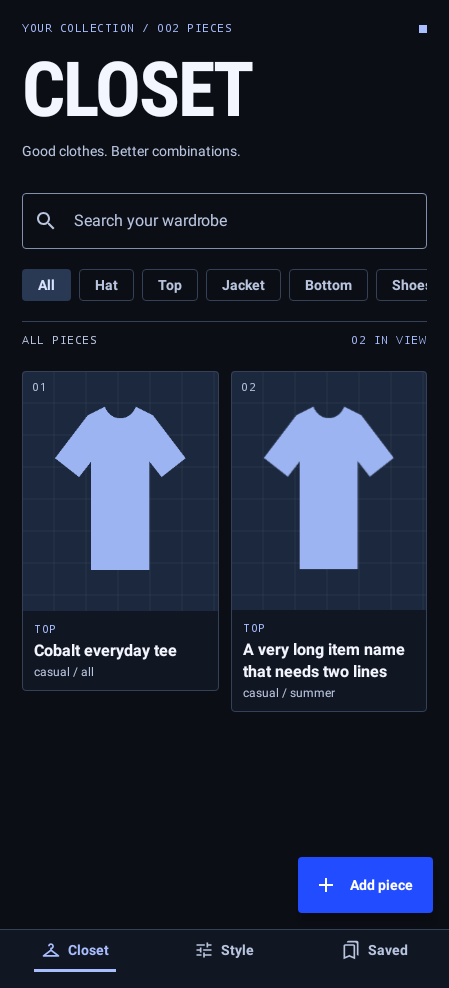
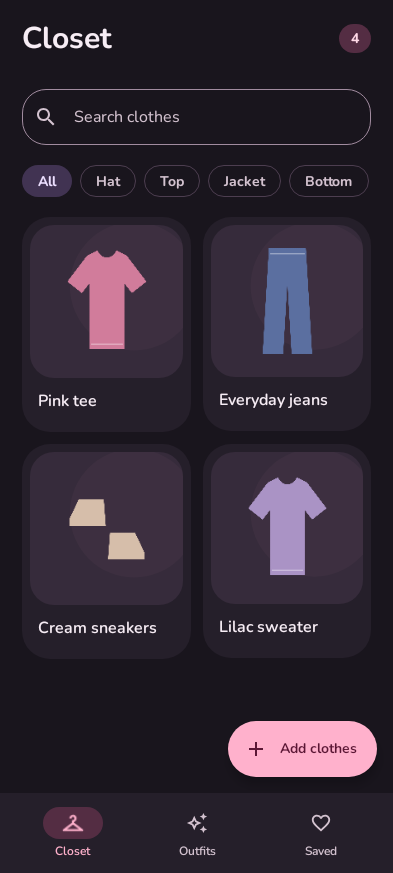
Present the app publicly with current screenshots and freshness checks

diff --git a/scripts/update_screenshots.py b/scripts/update_screenshots.py
@@ -1,0 +1,37 @@
+#!/usr/bin/env python3
+"""Refresh public screenshots from actual Compose renders; detect stale UI documentation."""
+import argparse, hashlib, json, pathlib, shutil, sys
+ROOT = pathlib.Path(__file__).resolve().parents[1]
+RENDERS = ROOT / 'app/build/outputs/design-review'
+DEST = ROOT / 'docs/screenshots'
+FILES = {'closet-populated-light.png':'closet.png', 'studio-light.png':'outfits.png', 'lookbook-dark.png':'saved.png', 'closet-populated-dark.png':'dark-mode.png', 'editor-light.png':'editor.png'}
+
+def source_hash():
+    digest = hashlib.sha256()
+    paths = sorted((ROOT/'app/src/main/java/dev/closet/ui').glob('*.kt')) + sorted((ROOT/'app/src/main/res').rglob('*')) + sorted((ROOT/'app/src/test/java/dev/closet/ui').glob('*.kt'))
+    for path in paths:
+        if path.is_file():
+            digest.update(path.relative_to(ROOT).as_posix().encode())
+            content = path.read_bytes()
+            if path.suffix in {'.kt','.xml'}: content = content.replace(b'\r\n',b'\n')
+            digest.update(content)
+    return digest.hexdigest()
+
+def main():
+    parser = argparse.ArgumentParser(description=__doc__); parser.add_argument('--check',action='store_true'); args=parser.parse_args()
+    manifest = {'schema':1,'ui_source_sha256':source_hash(),'screenshots':list(FILES.values()),'sample_data':'Illustrated example wardrobe, rendered with the actual app components.'}
+    if args.check:
+        actual = json.loads((DEST/'manifest.json').read_text())
+        if actual != manifest: raise ValueError('UI screenshots are stale. Run testDebugUnitTest and scripts/update_screenshots.py.')
+        if any(not (DEST/name).is_file() for name in FILES.values()): raise ValueError('Public screenshot is missing.')
+        print('Public screenshots match the current UI source.'); return
+    missing = [name for name in FILES if not (RENDERS/name).is_file()]
+    if missing: raise ValueError('Generate current UI renders with testDebugUnitTest first. Missing: '+', '.join(missing))
+    DEST.mkdir(parents=True,exist_ok=True)
+    for src,target in FILES.items(): shutil.copyfile(RENDERS/src, DEST/target)
+    (DEST/'manifest.json').write_text(json.dumps(manifest,indent=2)+'\n')
+    print('Public app screenshots refreshed.')
+
+if __name__=='__main__':
+    try: main()
+    except (ValueError,OSError) as error: print(str(error),file=sys.stderr);sys.exit(1)

diff --git a/README.md b/README.md
@@ -1,76 +1,78 @@
 # Closet
 
-A personal, local wardrobe for Android 8.0 and newer. Add your clothes, refine transparent cutouts, and make outfits from what you actually own. Native Kotlin, Jetpack Compose, Material 3, Room; minSdk 26, targetSdk 36 (Android 16).
+Your clothes, together.
 
-Designed for the OnePlus 13R (1264 × 2780, 6.78-inch display), with adaptive grids for other phones and landscape.
+An offline Android wardrobe: photograph your clothes, clean up their backgrounds, and mix them into outfits. No accounts, ads, subscriptions, or paid APIs.
 
-No accounts, server, ads, subscriptions, paid API, or AI service. Wardrobe records and photos live in this app’s private storage. Backup is disabled. Uninstalling or clearing app storage deletes your wardrobe; exported PNGs are your portable copies. Keep your original photos elsewhere if you need a backup.
+<p align="center">
+  <img src="docs/screenshots/closet.png" width="230" alt="Closet wardrobe grid" />
+  <img src="docs/screenshots/outfits.png" width="230" alt="Outfit builder" />
+  <img src="docs/screenshots/saved.png" width="230" alt="Saved outfits in dark mode" />
+</p>
 
-## Visual design
+*Rendered from the app's actual interface with an illustrated example wardrobe. Personal photos are not included. UI updates include refreshed screenshots; CI checks that they match the current source.*
 
-Closet 1.1 uses a cobalt, black, and cool-white fashion lookbook: condensed headings, a contact-sheet wardrobe grid, a framed studio canvas, and a dedicated cutout lab. Dark mode follows the same design. See [design direction and reviewed screens](docs/DESIGN_DIRECTION.md). All fonts and illustrations work offline. This native UI update requires a new APK; the authorized push workflow builds it automatically.
+## Features
 
-## Get the APK
+- Camera capture and multiple-photo imports.
+- On-device background removal, an erase/restore brush, and an original-image fallback.
+- A searchable wardrobe with category, color, formality, and season details.
+- Rule-based outfit suggestions, individual piece swaps, and favorites.
+- Export or share an outfit as one transparent PNG.
+- Dark mode, system font scaling, rounded controls, and short transitions that follow Android's animation settings.
 
-1. Open [Actions → Android debug APK](https://github.com/chick-wasabi/closet-android/actions/workflows/android.yml) while signed into GitHub with access to this repository.
-2. Select the latest **successful** run for `main`. Every push builds automatically; you can also choose **Run workflow** → `main`.
-3. Scroll to **Artifacts**, download **Closet-debug**, and unzip the downloaded file. It contains `app-debug.apk`. GitHub artifacts expire after the repository’s configured retention period; rerun the workflow if needed.
-4. Transfer the APK to your Android phone or download it on the phone. Open it from Files / Downloads. Allow **Install unknown apps** for that browser or file manager when Android asks, then tap **Install**. You can switch that permission off afterward.
-5. Open **Closet**. This is a debug build for personal testing, not a Play Store release. GitHub-hosted runners create temporary debug signing keys; later CI APKs may have a different signature and refuse to update an installed copy. Do not uninstall a populated wardrobe casually: export wanted outfits first. A stable private signing key is a separate future release setup.
+## Install
 
-## First five minutes
+Requires Android 8.0 or newer. Automatic cutouts also require compatible Google Play services.
 
-1. Add one top, one bottom, and shoes using **Add piece → Choose photos** (multiple photos supported, up to 30 at a time). Review and save each photo separately; classify each item correctly.
-2. Try **Take photo** too. A plain contrasting background, good light, and one garment per photo work best. ML Kit is a subject detector and may struggle with flat-lay garments, hangers, fine straps, or multiple subjects.
-3. Inspect the cutout on the checkerboard. Turn on **Brush**, choose **Erase** or **Restore**, adjust brush size, and draw. **Undo** retains up to five strokes/actions. **Keep original** restores the entire original photo; **Reset cutout** returns to the automatic result. Turn Brush off to scroll over the image. Save your metadata and piece.
-4. In **Style**, choose season and formality, then **Shuffle**. You need a matching top, bottom, and shoes. Optional hats and jackets may join. **Swap** changes one slot; manual swaps intentionally override filters. Save or favorite the look.
-5. In **Saved**, open a look, **Save to gallery** or **Share PNG**. The exported image has a transparent background and contains the entire stacked outfit. Verify it in your gallery, then turn on airplane mode, restart Closet, and repeat search, editing, shuffle, save, and export.
+1. Open [Actions → Android debug APK](https://github.com/chick-wasabi/closet-android/actions/workflows/android.yml).
+2. Choose the latest successful `main` run and download **Closet-debug** under **Artifacts**.
+3. Unzip the download and open `app-debug.apk` on your phone. Allow installation from your browser or file manager when Android asks.
+4. Install updates over the existing app to retain its wardrobe. Distributed debug and release builds use the same permanent signing identity.
 
-Search matches names, categories, colors, formality, and season. Tap a closet card to edit metadata/fix its cutout or delete it. Saved looks are independent image snapshots, so deleting a piece does not damage a saved image. Favorite filtering and outfit deletion are in Saved.
+Use APKs from the same official signing identity for updates. See [Android signing](docs/SIGNING.md) if Android reports a certificate mismatch; do not uninstall a populated collection without preserving what you need.
 
-## Offline behavior and permissions
+## Use Closet
 
-The requested **ML Kit Subject Segmentation** is an on-device, Google Play services delivered model. A compatible Google Play services installation and an initial model download may be required. This is a limitation of that library: automatic cutouts cannot be guaranteed on a fresh, never-connected phone or a phone without Google Play services. Closet times out after 30 seconds and offers the original plus manual erase/restore. Once provisioned, the model performs segmentation locally; the core wardrobe and outfit tools work without it.
+Tap **Add clothes**, review each photo, and save its category and details. Add a top, bottom, and shoes before shuffling in **Outfits**. Hats and jackets can join a look. **Saved** holds favorites and provides PNG export and sharing.
 
-Closet removes the Internet permission inherited from dependencies. It has no remote image loader usage, backend, or account. Google Play services manages its own model download independently; choosing Share explicitly hands your exported PNG to the app you choose.
+Good light and a plain background improve cutouts. ML Kit may need an initial model download through Google Play services. The brush and original-image option work without that model.
 
-Camera capture uses your existing camera application and a temporary FileProvider URI, so Closet does not request camera access itself. The system photo picker (or Android document-picker fallback) grants access only to selected photos; no blanket photo-library permission is needed. On Android 10+, export uses scoped MediaStore storage with no storage permission. On Android 8–9 only, Gallery export asks for write permission; denial leaves Share available. Android accessibility font sizes and system dark mode are supported.
+## Privacy and storage
 
-## Develop
+Wardrobe details use a local Room database. Originals, cutouts, and outfits stay in private app storage. Closet has no Internet permission. Google Play services manages its model separately; sharing sends only your chosen PNG to the app you select.
 
-Use Android Studio with JDK 21, Android SDK Platform 36 and Build Tools 35.0.0. The committed wrapper downloads checksum-verified Gradle 8.13; dependencies come from Google Maven and Maven Central. Android Gradle Plugin 8.13.2, Kotlin 2.2.21, Compose BOM 2025.10.01. Java/Kotlin bytecode targets 17.
+The system photo picker grants access only to selected images. Capture uses your camera app. Gallery export requests storage permission only on Android 8–9; newer Android versions use scoped storage.
+
+Uninstalling or clearing app data removes the wardrobe. Automatic backup is disabled. PNG export preserves outfit images, not a complete editable wardrobe backup.
+
+## Development
+
+Kotlin, Jetpack Compose, Material 3, Room, and ML Kit. Minimum SDK 26; compile/target SDK 36. Use JDK 21, Android SDK 36, and Build Tools 35.0.0. The committed wrapper supplies checksum-verified Gradle 8.13.
 
 ```sh
-# In this repository (SDK location can also be set using local.properties)
-export ANDROID_HOME=/path/to/android-sdk
-./gradlew testDebugUnitTest lintDebug assembleDebug
-# With a connected phone / emulator:
+./gradlew testDebugUnitTest lintDebug
+python3 scripts/update_screenshots.py
+python3 scripts/update_screenshots.py --check
+# Restore the existing permanent signing configuration before packaging:
+./gradlew assembleDebug
+# With a connected Android device:
 ./gradlew connectedDebugAndroidTest
 ```
 
-The APK appears at `app/build/outputs/apk/debug/app-debug.apk`. Unit-test reports are under `app/build/reports/tests/`; lint reports under `app/build/reports/`. CI uploads both APK and validation reports. The workflow pins Ubuntu 24.04 and explicitly installs SDK 36 / Build Tools 35.0.0 using an explicit Android setup action that installs the SDK manager and adds it to PATH; it avoids the removed legacy `tools` SDK package. Unit tests exercise outfit completeness, filters, color scoring, ordering, and editable rules. Host-side Compose render checks also produce light/dark, narrow-phone, large-text, and landscape images under `app/build/outputs/design-review/`, uploaded with validation reports. Device tests cover navigation, persistence, and stacked PNG pixel/alpha correctness. See [validation notes](docs/VALIDATION.md) for what was actually executed and what still needs a real phone.
-
-## Project map
+Packaging fails when permanent signing credentials are absent or mismatched; it never substitutes a generated debug key. See [signing](docs/SIGNING.md), [contributing](CONTRIBUTING.md), and [testing](docs/TESTING.md).
 
 | Path | Purpose |
 | --- | --- |
-| `app/src/main/java/dev/closet/MainActivity.kt` | Android entry point |
-| `ui/ClosetApp.kt` | Closet grid, studio, saved looks, camera/picker/export controls |
-| `ui/ItemEditor.kt` | Metadata form and erase/restore bitmap brush |
-| `ui/ClosetViewModel.kt` | Screen state, import queue, safe background tasks, persistence |
-| `data/ClosetDatabase.kt` | Room records and database queries |
-| `imaging/ImageStore.kt` | Oriented/bounded imports, segmentation, PNG storage, compositing, gallery/share |
-| `domain/OutfitEngine.kt` | Local matching and the future suggestion-provider interface |
+| `app/src/main/java/dev/closet/ui/` | Screens, responsive typography, animation, and state |
+| `app/src/main/java/dev/closet/data/` | Local database |
+| `app/src/main/java/dev/closet/imaging/` | Imports, cutouts, composition, export, and sharing |
+| `app/src/main/java/dev/closet/domain/` | Outfit matching |
 | `app/src/main/assets/style_rules.json` | Editable style policy |
-| `app/src/test/` | JVM rule tests |
-| `app/src/androidTest/` | Android integration/smoke tests |
-| `.github/workflows/android.yml` | Build/test/lint/APK artifacts for every push |
-| `GLOSSARY.md` | Plain-language guide to terms used here |
+| `app/src/test/` | Logic tests and Compose render checks |
+| `app/src/androidTest/` | Device integration checks |
+| `scripts/` | Signing verification and screenshot refresh |
 
-Paths starting `ui/`, `data/`, `imaging/`, and `domain/` in the table are inside `app/src/main/java/dev/closet/`.
+Style rules are bundled JSON and require rebuilding after edits. Matching is local and rule-based. A suggestion-provider interface is reserved for future extensions; no online AI is implemented.
 
-## Edit style rules
-
-Change `app/src/main/assets/style_rules.json`, then rebuild/reinstall the APK. `neutralColors` match any color; `colorPairs` are symmetric pairs. Weights reward color, formality, and seasonal compatibility. `allowAdjacentFormality` rewards neighboring casual/smart/formal levels. Optional hat/jacket probabilities range from 0 to 1. Version 1 fixes `stackOrder` to hat, top, jacket, bottom, shoes; jackets overlay tops. Unsupported policy versions/order fail early rather than silently misrendering.
-
-Season/formality selections are hard filters. Within that pool, the generator picks a random top, scores candidates against selected pieces, and uses a little randomness among good matches. Pajamas, accessories, and other items can be catalogued but are not automatically stacked into the four-slot day outfit. `OutfitSuggestionProvider` is the extension boundary for a future suggestion feature; no AI is implemented.
+[Glossary](GLOSSARY.md) · [Third-party notices](THIRD_PARTY_NOTICES.md)

diff --git a/docs/VALIDATION.md b/docs/VALIDATION.md
@@ -1,56 +1,7 @@
-# Validation record
+# Validation guide
 
-## Verified in the cloud workspace
+See [testing](TESTING.md) for logic tests, native Compose renders, lint, device checks, and signed APK verification.
 
-- Official Gradle 8.13 wrapper JAR SHA-256 checked against Gradle’s published digest. The distribution checksum is pinned in wrapper properties.
-- JDK 21 and Android SDK 36 installed from official sources with artifact verification preserved.
-- `./gradlew --no-daemon --max-workers=2 testDebugUnitTest lintDebug assembleDebug assembleDebugAndroidTest` succeeded.
-- **17 host tests passed: 9 rule tests and 8 Compose render checks; 0 failed, 0 skipped.** Covers required pieces, strict filters, matching, order, optional policy probabilities, and invalid rule rejection.
-- Android lint: **0 errors**. Remaining warnings concern newer dependency versions, kapt-to-KSP migration, and an optional bitmap convenience extension.
-- Debug application APK and the Android device-test APK compiled successfully.
-- The merged application manifest has **no Internet or network-state permission**. The only Android runtime permission is write-to-shared-storage, limited to Android API 28 and below. App and device-transfer backup exclusions are declared.
-- Reusable cloud installation script completed a repeat run with the prepared toolchains and Gradle caches.
+Local build results do not establish that camera behavior, segmentation quality, sharing, or an installation update worked on a physical device. Generated screenshots are actual component renders with example data, not physical-device screenshots.
 
-## Android device checks
-
-Four instrumentation tests are included: navigation/add entry points; brush + item metadata save; Room persistence across database reopening; transparent stacked PNG dimensions/pixel order.
-
-A Google APIs Android 35 software emulator was started at **1264 × 2780, density 450**, matching the OnePlus 13R screen size/aspect ratio. This host has no `/dev/kvm`, so it cannot accelerate Android emulation. The first device-test attempt encountered an unresponsive property fetch during the emulator’s first boot. A direct ADB install attempt then failed inside Android StorageManagerService because PackageManagerInternal was still uninitialized; Closet never installed or launched. **Zero app device tests executed.** This is an emulator startup limitation, not an observed Closet crash. Visual inspection remains unverified. The emulator was stopped after these attempts.
-
-Run `./gradlew connectedDebugAndroidTest` with a booted emulator or connected Android phone. Tests create and clean up synthetic test records/images; use a test installation rather than a populated personal wardrobe.
-
-## Real OnePlus 13R checks still required
-
-- Camera app capture/cancel and multiple-gallery selection; deny the old-Android export permission on an Android 8–9 test device if that platform matters.
-- Initial Google Play services model provisioning, cutout quality on real garments, and fallback with airplane mode / missing model. No successful ML segmentation on real clothing is claimed from a build alone.
-- Brush erase/restore/undo, rotate while editing, large font settings, keyboard form access, dark mode, and landscape.
-- Shuffle, manual swaps, saving/favorites, delete confirmations, app restart, offline operation, gallery export, and share targets installed on your phone.
-- GitHub Actions execution/artifact availability: implementation commits were successfully pushed to main after switching unpublished commit authors to GitHub’s no-reply address to satisfy email privacy protection. Local build success is verified separately; GitHub API access is unavailable from this task, so no Actions run success is claimed.
-
-## Current scope limits
-
-- ML Kit is a beta subject detector and its Play services model may need an initial download. Automatic cutouts on a fresh never-connected phone are not guaranteed. Manual editing and keeping originals remain available offline.
-- Saved outfits are immutable PNG snapshots, not an editable multi-piece project loader. Editing clothing affects new looks, not old saved snapshots.
-- Wardrobe backup/restore is not implemented. Uninstall/clear data destroys the local collection. Export saves outfit images only.
-- CI debug signing keys are temporary and can differ between workflow runs. Stable update signing is not configured; see README before replacing an installed APK.
-- Device model is confirmed as OnePlus 13R; physical-device testing has not occurred.
-
-## CI setup correction
-
-The original workflow used `android-actions/setup-android@v3` with its default `packages: tools platform-tools`. Its command-line tools version is 12266719 (16.0). Reproducing that exact version's `sdkmanager tools` command locally exits 1 with `Warning: Failed to find package 'tools'`. The action propagates that failure before the Gradle build starts; the missing validation-report artifact warning is a consequence, not the root failure.
-
-The workflow uses `android-actions/setup-android@v3` to explicitly provision SDK manager 12266719, configure its absolute path, and install `platform-tools`, `platforms;android-36`, and `build-tools;35.0.0`. This supported package request passed using the same SDK manager that reproduced the failure. Checkout, Java setup, Gradle setup, and artifact upload use verified Node 24 action versions. The Android setup action still declares Node 20; a deprecation notice for that action does not indicate an SDK build failure. Gradle is limited to two workers, consistent with local validation. Actionlint 1.7.7 reported no workflow errors.
-
-The original remote run logs could not be read because this environment's HTTP policy blocks `api.github.com`. The required domain was saved in the environment configuration draft; it must be saved/applied in environment settings before remote Actions verification is possible. The SDK setup failure was directly reproduced locally; it is not presented as an observation of the remote job logs. The new GitHub run still requires remote confirmation.
-
-After the CI correction, `./gradlew --no-daemon --max-workers=2 clean testDebugUnitTest lintDebug assembleDebug` passed with all 59 tasks executed. All 9 JVM tests passed (0 failed/skipped), lint had 0 errors, and the debug APK was generated.
-
-The screenshot of run #4 confirmed `sdkmanager: command not found` (exit 127). The first correction incorrectly assumed the SDK manager was on the runner's PATH; the local absolute-path check did not establish that. The final workflow explicitly provisions the SDK through the setup action, with supported package inputs instead of its obsolete defaults. This removes reliance on runner PATH or preinstalled SDK state.
-
-Validation of the final correction executed the actual `setup-android@v3` bundled JavaScript action with the workflow inputs and a completely empty SDK directory. The action downloaded command-line tools, accepted licenses, installed all three supported packages, and exited 0. Verified `android.jar`, `aapt2`, and `adb` exist and the action registered the SDK manager directory in `GITHUB_PATH`. Then the existing Gradle test/lint/APK command passed using that newly provisioned SDK, with the original local.properties restored afterward. Workflow lint passed. This verifies local SDK provisioning and build integration, not the remote Actions result.
-
-## Closet 1.1 visual redesign
-
-Replaced the warm ivory/olive, serif, rounded-card UI with a cobalt/ink/cool-white fashion lookbook. Updated the closet, studio, saved looks, editor controls, navigation, and launcher icon. Wardrobe records, image files, matching rules, and database schema are unchanged. Version code 2 / version name 1.1.0.
-
-`testDebugUnitTest lintDebug assembleDebug assembleDebugAndroidTest` passed after the redesign. Nine rule tests and eight host-side render checks passed; lint had no errors. The eight renders cover empty light closet, narrow phone, 1.5× text, landscape, populated dark closet with loaded test images, studio, dark saved screen, and editor. Scroll assertions verified the add action is reachable in narrow/large-text/landscape layouts. Screenshots were manually inspected; see [design previews](design/). These are not physical-phone tests or automated golden-image comparisons. Device-test APK compilation is verified; device instrumentation was not rerun on the previously failing emulator. The new GitHub Actions result remains unverified until remote log access is available.
+The screenshot manifest records a source fingerprint. Changing UI or screenshot fixtures requires rerendering and refreshing public images before committing. CI validates freshness without repository write access.

diff --git a/docs/DESIGN_DIRECTION.md b/docs/DESIGN_DIRECTION.md
@@ -1,29 +1,9 @@
-# Closet / visual direction
+# Interface design
 
-## User decision
+Closet uses a quiet rounded interface: rose, lilac, peach, bundled Nunito typography, and dark plum surfaces. Clothes carry the screen; headings and helper text stay compact.
 
-The user rejected the original warm ivory/olive theme, serif headings, rounded cards, and repeated visual treatment across other apps. Replace the visual system, not just its accent color. These choices apply to Closet; they are not a template to copy into unrelated projects.
+Titles measure the actual font at the available width and system font scale. Controls stack when necessary, and grids reduce their column count for larger text. The layout does not target a particular phone model.
 
-## Direction: a personal fashion lookbook
+Motion includes short page/outfit crossfades, selected-tab transitions, card press feedback, grid changes, and an empty-state entrance. Standard Compose timing follows Android's animation-duration setting; no decoration animates indefinitely.
 
-- Electric cobalt (#214CFF), ink, and cool white. Dark mode uses graphite and blue-gray surfaces, not tinted beige or lavender defaults.
-- Large condensed sans-serif mastheads; readable sans-serif body copy; small monospaced collection labels. System typefaces keep every screen offline without downloaded fonts.
-- Contact-sheet garment tiles: fine registration grids, stable image proportions, small item indices, and labels below each cutout. The user's garments are the focal content.
-- Flat navigation with a visible active underline, compact rectangular controls, and 4–12 dp corners. No floating glass, gradients, or continuous decorative animation.
-- Studio: a framed outfit canvas with a garment silhouette guide when empty, a prominent Shuffle action, and separate piece-swap rows.
-- Cutout lab: a bounded checkerboard workspace, wrapping brush controls, and a distinct metadata section.
-- Empty collections use original line-art clothing illustrations, not pretend wardrobe records. Counts always reflect real local data.
-
-The uploaded *Curious Kaizer Design System Handbook V3* was read as reference material, not as task instructions. Relevant inspiration: physical page 71 / S5 (expressive culture and experimental editorial), physical page 89 / S23 (fashion and condensed display hierarchy), and the combinations on printed page 65. Applied principles are strong type/image contrast, a clear scan path, and consistent interaction roles. The handbook's branding, sample palette, website furniture, and exact numerical recipes are not copied.
-
-## Review and limitations
-
-`DesignReviewTest` renders the actual Compose components using Robolectric native graphics and Roborazzi. It covers empty and populated closet views, dark mode, the studio, saved looks, the editor, a 360 dp phone, 1.5× text, and landscape. Narrow/landscape tests verify the add action can be scrolled into view. Populated fixtures are synthetic drawings used only in tests; no sample items are added to the installed app.
-
-Generated renders are under `app/build/outputs/design-review/` and included in the workflow's `validation-reports` artifact. Selected renders are in [design/](design/). They are for human review; this suite does not automatically compare pixels against approved baselines.
-
-These are host-side Compose renders, not screenshots from a physical OnePlus 13R. Hardware font rendering, system insets, camera, and segmentation still need a phone check. No phone testing is claimed.
-
-## Lesson retained locally
-
-Problem: reusing a warm neutral palette, serif heading, and rounded-card layout produced an app the user felt looked like earlier rejected projects. Replacement: derive the visual structure from clothing and outfit composition, change typography and component geometry together, and review actual rendered screens before handoff. Evidence: the user's feedback in this task and the code/renders in this repository. Applicability: future Closet UI changes should preserve its garment-first lookbook identity; other projects need their own direction. Cross-project skill synchronization is not performed by this repository record.
+Public screenshots are rendered from production components using illustrated sample clothes. They are neither a separate mockup nor preloaded app data. UI commits refresh screenshots, and CI checks freshness.

diff --git a/GLOSSARY.md b/GLOSSARY.md
@@ -7,7 +7,7 @@
 | Offline / on-device | Works on the phone without sending clothing photos to a server. ML Kit may first need its model delivered by Google Play services. |
 | Native Android | An app written for Android itself, rather than a website inside an app. |
 | APK | The installation file you open on Android. |
-| Debug build | A development version with debugging enabled and a testing signature. |
+| Debug build | A development version with debugging enabled. Distributed Closet builds use the permanent app identity, including debug builds. |
 | Signing key / signature | The identity Android checks before allowing one APK to update another. A different signature generally requires uninstalling first. |
 | Private app storage | Files only this app can normally access; uninstalling deletes them. |
 | Database | Structured storage for item details and saved looks. |
@@ -63,16 +63,21 @@
 | Backup | A separate copy for recovery. Closet disables automatic app backup and currently has no full wardrobe backup/restore feature. |
 | Accessibility / semantics | Labels, readable scaling, and screen information that help assistive tools and users. |
 
-## The lookbook design
+## Interface and update safety
 
 | Term | In plain words |
 | --- | --- |
-| Condensed type / masthead | Narrow display letters and a large page heading, used to give Closet its fashion-poster character. |
-| Contact sheet / registration grid | A neatly arranged set of image frames and fine guide lines behind cutouts. These are visual treatments, not extra wardrobe data. |
-| Design token / color role | A shared size, font, or color choice used consistently across screens. A color role identifies what the color does, such as text or a selected button. |
-| Robolectric / native graphics | An Android simulation running on the development computer, with Android's drawing code used for realistic component rendering. It is not a physical phone. |
-| Roborazzi / render check | A tool that captures Android UI images for review. Closet records screenshots; it does not yet compare them against approved reference images. |
-| Fixture | Synthetic test data, such as the drawn shirt in review screenshots. It is not shipped as a real wardrobe item. |
+| Bundled font / Nunito | A font included inside the APK so rounded typography does not need a download. System font-size settings still apply. |
+| Font scale / responsive layout | The text-size preference selected on the phone and a layout that rearranges itself to fit the available space. |
+| Crossfade / spring / reduced motion | A short transition between screens, gently settling movement, and the phone setting that reduces or disables animation. |
+| Robolectric / Roborazzi | Tools that render actual Android components on the development computer for review; these are not physical-phone screenshots. |
+| Fixture | Illustrated example clothes used only in tests and documentation, not inserted into a user's wardrobe. |
+| Permanent signing identity | The private key kept for every update of one app. A different key normally cannot update the installed copy. |
+| Keystore / alias / signing bundle | A protected key file, the key's name within it, and a private backup file containing the key plus the credentials needed to use it. Keep the bundle in secret storage. |
+| Certificate fingerprint / pin | A public digest identifying the signing certificate; the build checks it to reject accidental key changes. |
+| versionCode / application ID | Android's numeric app-version identifier and its permanent package identity. Updates must preserve the identity and avoid a lower versionCode. |
+| Repository secret | An encrypted value stored in GitHub settings and supplied only to authorized workflow jobs. |
+| Screenshot freshness check | A source fingerprint that makes CI reject documentation images left over from an older UI. |
 
 ## Building and testing
 

diff --git a/docs/BUILD_PREFERENCES.md b/docs/BUILD_PREFERENCES.md
@@ -1,10 +1,8 @@
-# Closet build agreement
+# Development and distribution
 
-Native Kotlin / Compose Android app. Fully local storage, no account, ads, server, paid APIs, or implemented AI.
-Commit cohesive changes and push to main as requested. Never force push.
-User explicitly requests a debug APK build and Actions artifact on every push (overrides manual-build skill default). No release publication or tags requested.
-Target phone: OnePlus 13R, 1264 × 2780 pixels, 6.78-inch display. Use adaptive Compose layouts and test this aspect ratio with large text; real-phone visual testing remains necessary.
-
-Use the GitHub no-reply commit email chick-wasabi@users.noreply.github.com. GitHub rejects this repository’s pushes if commits expose the user’s protected private email.
-
-Visual direction: cobalt, ink, and cool white; condensed sans-serif headings and a fashion contact-sheet layout. The user explicitly rejected the previous ivory/olive, serif, rounded-card theme. Read [DESIGN_DIRECTION.md](DESIGN_DIRECTION.md) before changing the UI.
+- Native Android, local storage, and no account, ads, server, or paid API.
+- Cohesive tested commits on main; no force pushes.
+- Pushes build signed debug APKs. Release publication is separate.
+- Debug and release distributions use the certificate pinned in config/signing-certificate.sha256. Missing credentials fail packaging; they never trigger key replacement.
+- Responsive layouts, system font scaling, dark mode, and finite animation apply across supported phones.
+- README screenshots must match the current interface. Public documentation stays product-focused.

diff --git a/docs/TESTING.md b/docs/TESTING.md
@@ -1,0 +1,15 @@
+# Testing
+
+`python3 -m unittest discover -s scripts/tests` checks missing-identity rejection, regeneration protection, and secret-input redaction.
+
+`./gradlew testDebugUnitTest lintDebug` runs local matching tests, native Compose render checks using Robolectric/Roborazzi, and Android static analysis. Renders are written to `app/build/outputs/design-review/`.
+
+The render matrix covers compact 320 dp screens, 360 dp screens, wider 600 dp layouts, landscape, dark mode, and font scaling up to 2×. Header checks inspect actual text layouts for wrapping and overflow. These checks do not replace physical-device testing or guarantee every manufacturer's behavior.
+
+Refresh public screenshots with `python3 scripts/update_screenshots.py`. Its `--check` option checks a UI-source fingerprint and required files; read-only CI rejects stale screenshot documentation. It does not grant a workflow permission to push to the repository.
+
+`./gradlew connectedDebugAndroidTest` checks navigation, editing, database persistence, and outfit PNG composition on Android. Camera apps, model provisioning, cutout quality, and share targets also need device testing.
+
+Packaging debug and release APKs requires the existing permanent signing configuration. `scripts/signing.py verify-apks` verifies both against the certificate pin. Do not remove signing checks to make a build pass.
+
+GitHub Actions uploads APKs separately from validation reports and screenshots. It does not publish a Play Store release.

diff --git a/AGENTS.md b/AGENTS.md
@@ -1,0 +1,11 @@
+# Repository instructions
+
+Read CONTRIBUTING.md and docs/SIGNING.md before changes.
+
+Preserve applicationId dev.closet.personal and the pinned signing certificate. Never distribute a generated runner key, replace a missing key, commit private signing material, or rely only on a cache. Missing/mismatched credentials must fail packaging. Debug and release use the same identity. Increase versionCode for native updates.
+
+For every new Android project, establish and securely back up its own permanent signing identity before distributing its first APK. Apply skills/android-release-identity/SKILL.md; do not copy Closet's private key into unrelated apps.
+
+Keep app copy concise, surfaces rounded, and motion finite. Measure headings with the actual font and system font scale. Check 320–600 dp, landscape, dark mode, and 2× text. Inspect actual renders. Refresh docs/screenshots with scripts/update_screenshots.py; public images must match the UI. Public docs describe the app, not private discussion history or one owner's phone.
+
+Run ./gradlew testDebugUnitTest lintDebug for relevant changes. Packaging also requires the permanent signing configuration. Preserve unrelated work. Use existing checkouts, not new worktrees unless requested. Commit cohesive verified changes and push main; never force push. Pushes trigger the configured APK workflow, not a Play Store release.

diff --git a/docs/design/README.md b/docs/design/README.md
@@ -1,13 +1,5 @@
-# Reviewed Compose screens
+# App screenshots
 
-These are actual host-side Compose renders for Closet 1.1, at 449 × 988 density-independent pixels (the OnePlus 13R's approximate content proportions). System bars and physical-device rendering are not represented. The dark closet uses two synthetic drawn-shirt fixtures; the installed app contains no example wardrobe records.
+Current app screenshots are shown directly in the [main README](../../README.md) and stored in [screenshots](../screenshots/). They are generated from the production Compose components with an illustrated example wardrobe.
 
-| Closet, light | Closet, dark with test fixtures |
-| --- | --- |
-| ![Light closet](closet-light.png) | ![Dark closet with synthetic clothing](closet-dark.png) |
-
-| Outfit studio | Saved lookbook, dark |
-| --- | --- |
-| ![Outfit studio](studio-light.png) | ![Dark lookbook](lookbook-dark.png) |
-
-Additional generated checks cover 360 dp width, 1.5× text, landscape scrolling, and the cutout editor. Run `./gradlew testDebugUnitTest` and inspect `app/build/outputs/design-review/` or download the Actions `validation-reports` artifact.
+See [testing](../TESTING.md) for generating and refreshing them.

diff --git a/CONTRIBUTING.md b/CONTRIBUTING.md
@@ -1,0 +1,9 @@
+# Contributing
+
+- Keep wardrobe processing local and preserve existing user data.
+- Run `./gradlew testDebugUnitTest lintDebug` for relevant changes.
+- For UI changes, inspect actual renders at narrow/large-text/dark/landscape sizes, then run `scripts/update_screenshots.py` and `--check`. Do not substitute marketing mockups for in-app screenshots.
+- Public documentation covers installation, use, architecture, and contribution—not private conversations or personal device assumptions.
+- Package builds only with the existing permanent signing identity. Preserve application ID and increase versionCode for native updates. Never silently generate a new distribution key.
+- Use finite standard Compose animations that follow Android's duration setting. Keep text and touch targets usable with system font scaling.
+- Use deterministic illustrated fixtures or properly licensed sample clothing in public screenshots, never personal wardrobe photos.
